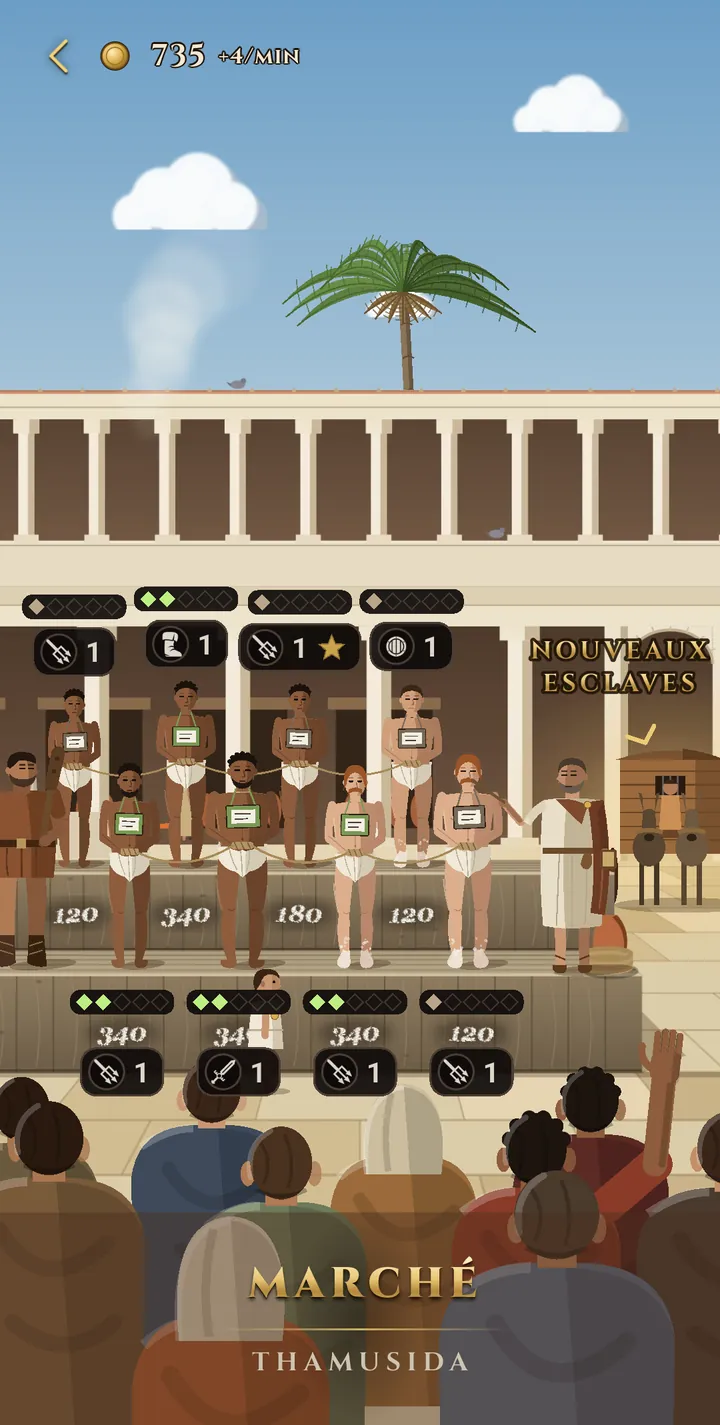
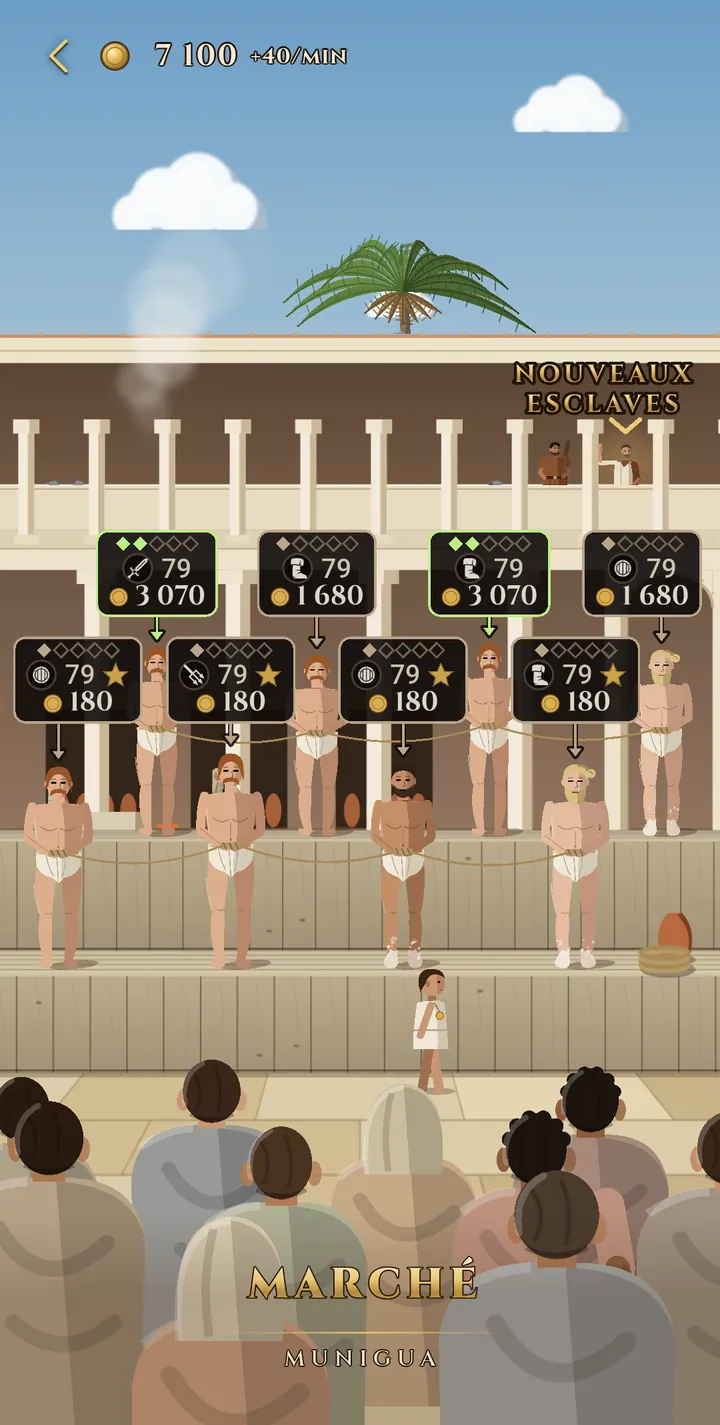
Reprend quatre captures sur la v8.1 : colisee, cour de la maison, pantheon, marche
- Colisee et cour de la maison : le titre de lieu a desormais un contour fin, plus de recadrage.
- Pantheon : un champion vaincu (Viriathus) au lieu de la prochaine conquete.
- Marche refait : estrade pleine largeur, marchand a l'etage, panneaux.
- ?v= incrementes apres la nouvelle politique.

diff --git a/harena/index.html b/harena/index.html
@@ -15,7 +15,7 @@
 <link rel="icon" href="favicon.png" type="image/png">
 <link rel="apple-touch-icon" href="img/apple-touch-icon.png">
 <link rel="preload" href="fonts/Cinzel.ttf" as="font" type="font/ttf" crossorigin>
-<link rel="stylesheet" href="style.css?v=20261011b">
+<link rel="stylesheet" href="style.css?v=20261012a">
 </head>
 <body>
 <a class="lien-evitement" href="#jeu" data-i18n="evitement">Aller au contenu</a>
@@ -147,7 +147,7 @@
   <p>© 2026 Graine Games</p>
 </footer>
 
-<script src="langue.js?v=20261011b"></script>
-<script src="arene.js?v=20261011b"></script>
+<script src="langue.js?v=20261012a"></script>
+<script src="arene.js?v=20261012a"></script>
 </body>
 </html>

diff --git a/harena/confidentialite.html b/harena/confidentialite.html
@@ -12,7 +12,7 @@
 <meta property="og:image" content="https://graine-games.github.io/harena/img/harena-512.png">
 <link rel="icon" href="favicon.png" type="image/png">
 <link rel="apple-touch-icon" href="img/apple-touch-icon.png">
-<link rel="stylesheet" href="style.css?v=20261011b">
+<link rel="stylesheet" href="style.css?v=20261012a">
 </head>
 <body>
 <a class="lien-evitement" href="#contenu" data-i18n="evitement">Aller au contenu</a>
@@ -137,6 +137,6 @@
   <p>© 2026 Graine Games</p>
 </footer>
 
-<script src="langue.js?v=20261011b"></script>
+<script src="langue.js?v=20261012a"></script>
 </body>
 </html>
